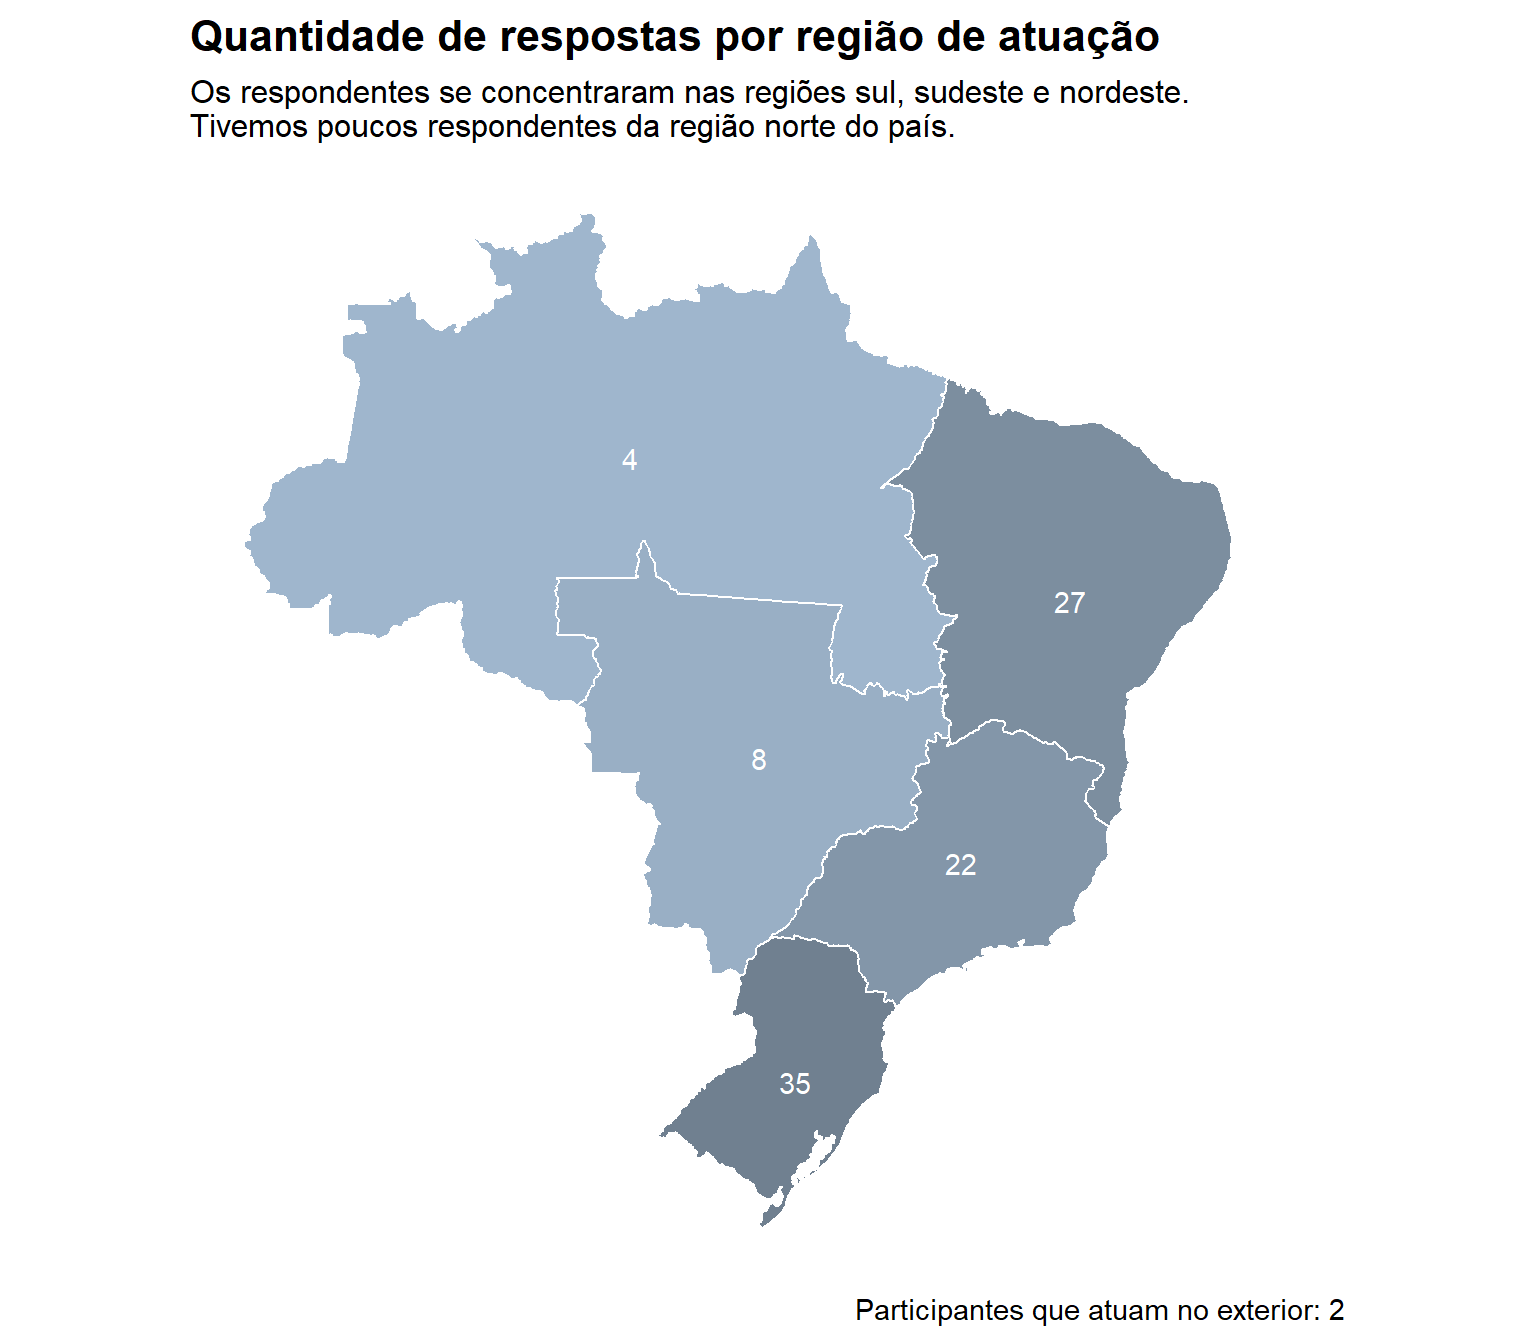
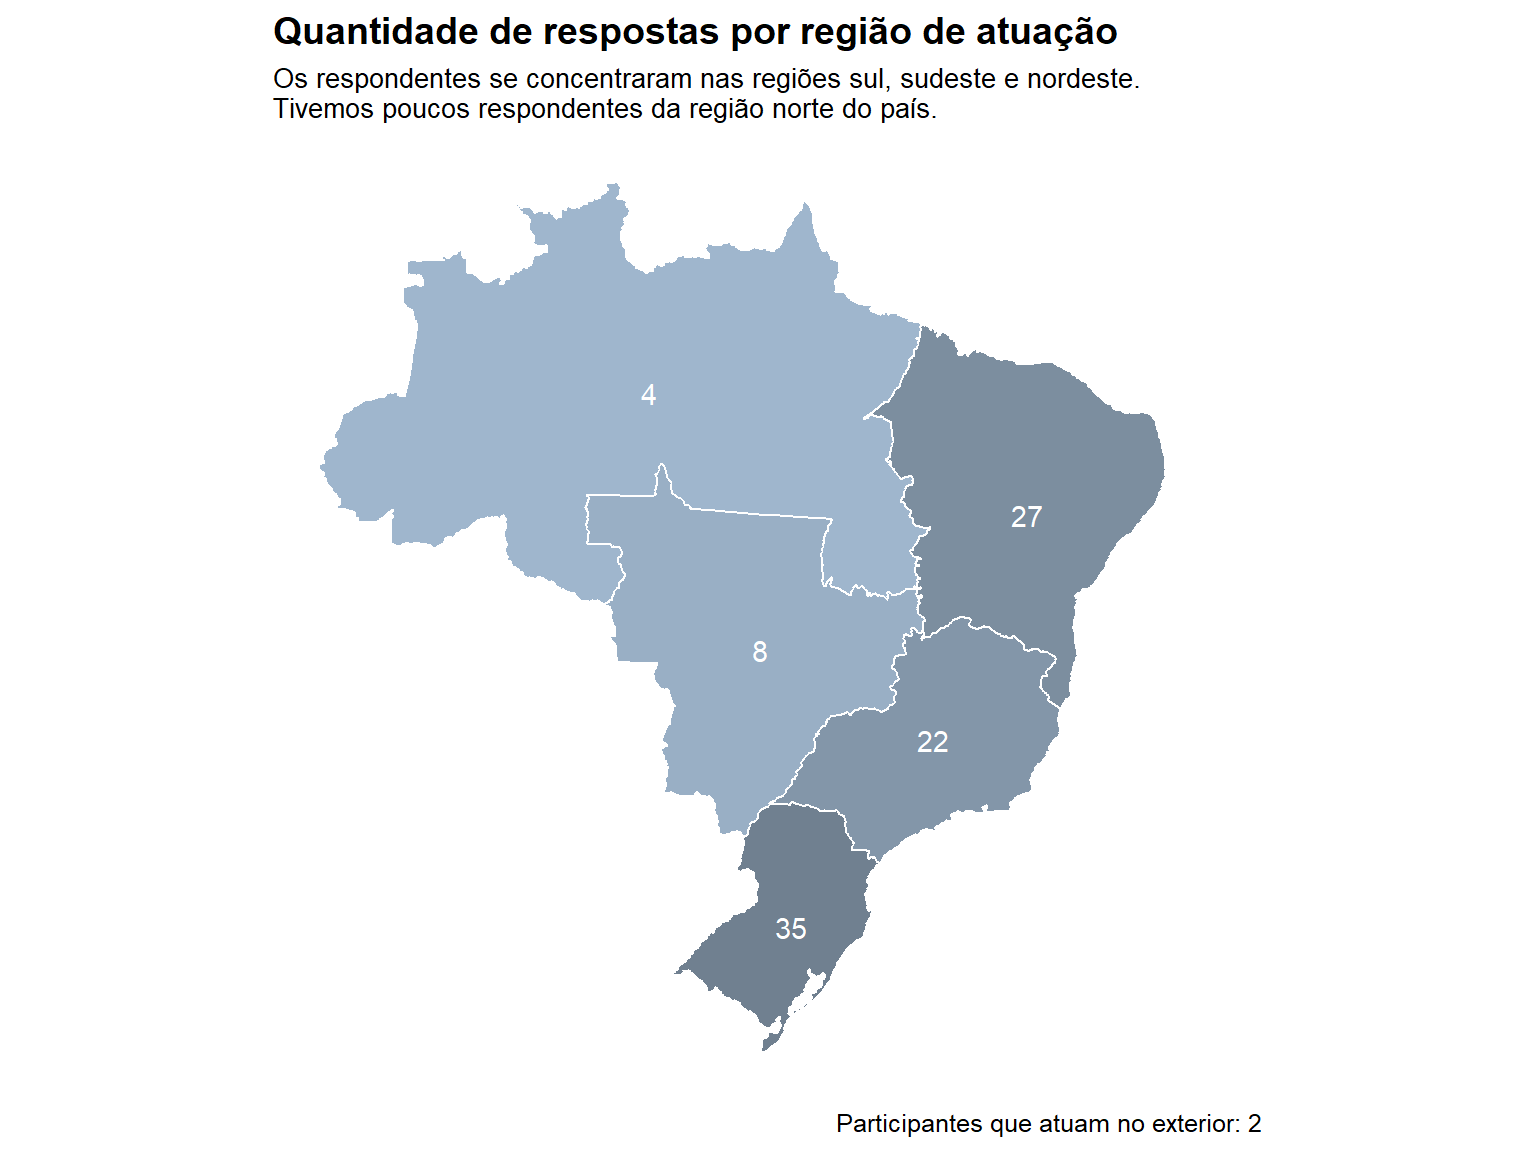
Update

diff --git a/content/post/perfil-do-engenheiro-florestal-usuario-do-r/index.html b/content/post/perfil-do-engenheiro-florestal-usuario-do-r/index.html
@@ -22,7 +22,7 @@ projects: []
 <script src="{{< blogdown/postref >}}index_files/header-attrs/header-attrs.js"></script>
 
 
-<p>Havia um ano que eu não postava por aqui. Foi muito interessante observar que, apesar do tempo sem postar, o fluxo de novos visitantes no blog e de contatos para sugestões ou esclarescimento de dúvidas foi contínuo, demonstrando que o interesse pela aplicação da linguagem R na área florestal é crescente. Por conta disso, resolvi criar um grupo no WhatsApp para reunir Engenheiros Florestais utilizadores do R, para compartilhamento de experiências, materiais, cursos, aplicações, pacotes, dúvidas, etc. O grupo lotou em poucos dias.</p>
+<p>Havia quase dois anos que eu não postava por aqui. Foi muito interessante observar que, apesar do tempo sem postar, o fluxo de novos visitantes no blog e de contatos para sugestões ou esclarescimento de dúvidas foi contínuo, demonstrando que o interesse pela aplicação da linguagem R na área florestal é crescente. Por conta disso, resolvi criar um grupo no WhatsApp para reunir Engenheiros Florestais utilizadores do R, para compartilhamento de experiências, materiais, cursos, aplicações, pacotes, dúvidas, etc. O grupo lotou em poucos dias.</p>
 <p>Foi então que tive a ideia de elaborar um breve questionário para gerar uma interação e averiguar como e por quem a linguagem R tem sido utilizada na área florestal. Na tentativa de incentivar o preenchimento, me comprometi a compartilhar os resultados e o código utilizado em toda a análise. A análise a seguir pode servir de auxílio aos colegas que estão buscando se aperfeiçõar na prática de programar em R, uma vez que busco utilizar diversos procedimentos de tratamento e manipulação de dados, bem como aplicar alguns conceitos básicos de data storytelling utilizando o pacote <code>ggplot2</code>. A fonte de dados é uma planilha do Google Sheets, cópia da versão original vinculada ao formulário, contendo todas as respostas para as 6 perguntas obrigatórias (primeira seção). Vamos à análise.</p>
 <p>Participaram do levantamento engenheiros florestais das cinco regiões do Brasil e também do exterior. Ao todo houveram 98 respostas ao questionário, sendo a maioria advindas de colegas que atuam nas regiões Sul, Nordeste e Sudeste.</p>
 <pre class="r"><code>#######################
@@ -80,7 +80,7 @@ respostas %&gt;%
                           filter(Regiao == &#39;Fora do Brasil&#39;) %&gt;% 
                           nrow()))+
   scale_fill_gradient(high = &#39;slategrey&#39;, low = &#39;slategray3&#39;)+
-  theme_map()+
+  theme_map(font_size = 12)+
   theme(plot.title.position = &#39;plot&#39;)</code></pre>
 <p><img src="{{< blogdown/postref >}}index_files/figure-html/unnamed-chunk-2-1.png" width="768" /></p>
 <p>Cerca de 87% dos participantes do levantamento atuam no setor privado ou no meio acadêmico como graduandos ou pós-graduandos. Ao todo, tivemos a participação de dois professores do Ensino Superior, dois servidores públicos, cinco autônomos e quatro colegas que estão em busca de uma oportunidade de trabalho.</p>
@@ -111,13 +111,13 @@ respostas %&gt;%
   scale_fill_gradient(high = &#39;slategrey&#39;, low = &#39;slategray3&#39;)+
   labs(title = &#39;Ocupação dos participantes&#39;,
        subtitle = &#39;A maioria dos respondentes são profissionais que atuam em instituições privadas.\nAcadêmicos de graduação e da pós também tiverem expressiva participação.&#39;)+
-  theme_minimal_vgrid()+
+  theme_minimal_vgrid(font_size = 12)+
   theme(axis.title = element_blank(),
         plot.title.position = &#39;plot&#39;,
         axis.text.x = element_blank(),
         panel.grid.major = element_blank(),
         axis.text.y = element_text(size = 10))</code></pre>
-<p><img src="{{< blogdown/postref >}}index_files/figure-html/unnamed-chunk-3-1.png" width="768" /></p>
+<p><img src="{{< blogdown/postref >}}index_files/figure-html/unnamed-chunk-3-1.png" width="576" /></p>
 <p>Quanto à frequência de utilização da linguagem R no trabalho/pesquisa/estudo, 37 participantes declararam utilizar o R frequentemente ou mesmo como principal ferramenta de tabalho. A classe de usuário mais expressiva foi a de usuários ocasionais, com 29 representantes. Seis colegas afirmaram nunca ter utilizado o R. Entendo que neste caso podem ser considerados usuários em potencial, uma vez que demonstraram interesse sobre o assunto.</p>
 <pre class="r"><code>################################
 # Análise da frequência de uso #
@@ -148,12 +148,13 @@ respostas %&gt;%
   coord_flip()+
   labs(title = &#39;Frequência de utilização do R&#39;,
        subtitle = &#39;A maioria dos respondentes afirmou utilizar o R ocasionalmente.\nUm a cada dez participantes utiliza a linguagem como principal ferramenta.&#39;)+
-  theme_minimal_vgrid()+
+  theme_minimal_vgrid(font_size = 12)+
   theme(axis.title = element_blank(),
         plot.title.position = &#39;plot&#39;,
         axis.text.x = element_blank(),
+        axis.text.y = element_text(size = 10),
         panel.grid.major = element_blank())</code></pre>
-<p><img src="{{< blogdown/postref >}}index_files/figure-html/unnamed-chunk-4-1.png" width="768" /></p>
+<p><img src="{{< blogdown/postref >}}index_files/figure-html/unnamed-chunk-4-1.png" width="672" /></p>
 <p>Ao todo 42 colegas declararam possuir domínio do R a nível básico. Considerei como básico o conhecimento necessário para rodar scripts prontos, carregar e salvar bases de dados, plotar e calcular estatísticas básicas. Dezenove participantes alegaram não possuir domínio nenhum sobre o R, sendo estre grupo formado por colegas que nunca utilizaram a linguagem ou já tiveram contato, mas não aplicam atualmente. Quatro dos 98 participantes indicaram ter um domínio mais avançado da linguagem, com conhecimentos em desenvolvimento de pacotes, aplicações e APIs, elaboração de relatórios automatizados e capacidade de extrair e utilizar de maneira automática dados “presos” ou mesmo “escondidos” na web por meio de webscrapping.</p>
 <pre class="r"><code>#############################################
 # Respostas quanto ao nível de conhecimento #
@@ -161,7 +162,7 @@ respostas %&gt;%
 respostas %&gt;% 
   group_by(NivelCon) %&gt;% 
   summarise(n = n()) %&gt;% 
-  mutate(labels = gsub(&#39;(.{1,30})(\\s|$)&#39;, &#39;\\1\n&#39;, NivelCon)) %&gt;% 
+  mutate(labels = gsub(&#39;(.{1,40})(\\s|$)&#39;, &#39;\\1\n&#39;, NivelCon)) %&gt;% 
   mutate(n_rel = n/sum(n)*100,
          labels = factor(labels,
                            levels = unique(labels)[c(3,5,2,4,1)],
@@ -172,21 +173,20 @@ respostas %&gt;%
   arrange(labels) %&gt;%
   ggplot()+
   geom_bar(aes(x=labels,y=n_rel, fill = fill), stat = &#39;identity&#39;)+
-  geom_text(aes(x=labels, y=n_rel, label = paste0(round(n_rel,1),&#39;%&#39;)), hjust = 1,nudge_y = -.5, color = &#39;black&#39;)+
+  geom_text(aes(x=labels, y=n_rel, label = paste0(round(n_rel,1),&#39;%&#39;)), hjust = 1,nudge_y = -.5, size = 3, color = &#39;black&#39;)+
   scale_x_discrete(limits = rev(levels(&#39;labels&#39;)))+
   scale_y_continuous(expand = c(0,0))+
   scale_fill_identity()+
   coord_flip()+
   labs(title = &#39;Nível de conhecimento na linguagem R&#39;,
        subtitle = &#39;A maioria dos participantes declara ter conhecimentos básicos em R.&#39;)+
-  annotate(&#39;text&#39;,x=4.5, y=8,hjust=0,label = &#39;Um em cada dez respondentes declarou possuir conhecimentos suficientes\npara desenvolver pacotes, aplicações e/ou relatórios reproduzíveis.&#39;)+
-  theme_minimal_vgrid()+
+  theme_minimal_vgrid(font_size = 12)+
   theme(axis.title = element_blank(),
         plot.title.position = &#39;plot&#39;,
         axis.text.x = element_blank(),
         panel.grid.major = element_blank(),
-        axis.text.y = element_text(size = 10))</code></pre>
-<p><img src="{{< blogdown/postref >}}index_files/figure-html/unnamed-chunk-5-1.png" width="768" /></p>
+        axis.text.y = element_text(size = 8))</code></pre>
+<p><img src="{{< blogdown/postref >}}index_files/figure-html/unnamed-chunk-5-1.png" width="672" /></p>
 <p>Mais da metade dos participantes afirma utilizar (ou ter a intenção de utilizar) o R em rotinas de inventário florestal e modelagem do crescimento e produção.<br />
 Minha percepção é que o domínio de uma linguagem de programação e a capacidade de automatização de procedimentos de análise e processamento de dados tem sido não só um diferencial, mas por vezes, um requisito básico para atuação nas áreas de planejamento e de mensuração de empresas de base florestal. Estas empresas atualmente geram e consomem grandes quantidades de dados e informações, as vezes em curto espaço de tempo, para basear decisões nos âmbitos operacional, tático e estratégico.</p>
 <pre class="r"><code>##########################
@@ -225,12 +225,12 @@ respostas %&gt;%
   coord_flip()+
   labs(title = &#39;Aplicação da linguagem R nas sub-áreas da Engenharia Florestal&#39;,
        subtitle = &#39;As principal área de aplicação é a de inventário / mensuração florestal.\nGeoprocessamento e análise experimental também estão entre as principais.&#39;)+
-  theme_minimal_vgrid()+
+  theme_minimal_vgrid(font_size = 12)+
   theme(axis.title = element_blank(),
         plot.title.position = &#39;plot&#39;,
         axis.text.x = element_blank(),
         panel.grid.major = element_blank(),
-        axis.text.y = element_text(size = 10))</code></pre>
+        axis.text.y = element_text(size = 9))</code></pre>
 <p><img src="{{< blogdown/postref >}}index_files/figure-html/unnamed-chunk-6-1.png" width="768" /></p>
 <p>A cada dez participantes do levantamento, quatro afirmaram ter dificuldades em aprender a programar. Isso é compreensível já que na formação do engenheiro florestal não há um enfoque para o desenvolvimento de habilidades de programação, visto que nossa área de atuação é bastante ampla e para muitos a rotina de campo é mais frequente que a de escritório.<br />
 Há uma tendência cada vez maior da utilização do R em algumas disciplinas que trabalham com dados, ou mesmo a inclusão de disciplinas específicas para desenvolvimento dessas habilidades nos cursos de graduação e pós-graduação.<br />
@@ -268,7 +268,7 @@ tibble(Dificuldade = c(&#39;Não tenho tempo/empenho&#39;,
   ggplot(aes(area = n, fill = n, label = labels))+
   geom_bar(aes(x=labels,y=n_rel, fill = fill), stat = &#39;identity&#39;)+
   geom_text(aes(x=labels, y=n_rel, label = paste0(round(n_rel,1),&#39;%&#39;)), hjust = 1,nudge_y = -.5, color = &#39;black&#39;)+
-  annotate(&#39;text&#39;,x=1, y=7,hjust=0,label = &#39;Outras dificuldades apontadas se referem à aplicação da linguagem no ambiente corporativo\n quando a ferramenta dominante é outra, deficiência em conhecimentos estatísticos e\n língua inglesa, falta de prática e alterações frequentes de versões de pacotes.&#39;,
+  annotate(&#39;text&#39;,x=1, y=7,hjust=0,label = &#39;Outras dificuldades apontadas se referem à aplicação da linguagem no ambiente corporativo\nquando a ferramenta dominante é outra, deficiência em conhecimentos estatísticos e\nlíngua inglesa, falta de prática e alterações frequentes de versões de pacotes.&#39;,
            size=3)+
   scale_x_discrete(limits = rev(levels(&#39;labels&#39;)))+
   scale_y_continuous(expand = c(0,0))+
@@ -276,12 +276,12 @@ tibble(Dificuldade = c(&#39;Não tenho tempo/empenho&#39;,
   coord_flip()+
   labs(title = &#39;Principais dificuldades no aprendizado da linguagem R&#39;,
        subtitle = &#39;A principal dificuldade apontada pelos participantes se refere à pratica de programação.\nFalta de tempo e/ou empenho também é uma das principais dificuldades apontadas.&#39;)+
-  theme_minimal_vgrid()+
+  theme_minimal_vgrid(font_size = 12)+
   theme(axis.title = element_blank(),
         plot.title.position = &#39;plot&#39;,
         axis.text.x = element_blank(),
         panel.grid.major = element_blank(),
-        axis.text.y = element_text(size = 10))</code></pre>
+        axis.text.y = element_text(size = 9))</code></pre>
 <p><img src="{{< blogdown/postref >}}index_files/figure-html/unnamed-chunk-7-1.png" width="768" /></p>
 <p>A comunidade R é bastante ampla e existe muito material disponível na internet para apoiar o aprendizado. Aqui no blog procuro compartilhar um pouco do que desenvolvo e que se aplica à área florestal, mas a maior parte do que aprendi veio de exemplos compartilhados na internet, com aplicações que na maioria das vezes não eram florestais. Foi o estudo, a prática e a constância de utilização que me permitiram direcionar o que aprendi (e continuo aprendendo) de maneira dispersa, ao desenvolvimento de soluções para os problemas que preciso atacar no meu trabalho diário.</p>
 <p>Bom, cumpro aqui meu combinado de disponibilizar os resultados e as análises do formulário. Deixo meu obrigado à todos os colegas que responderam o questionário. Até a próxima!</p>
